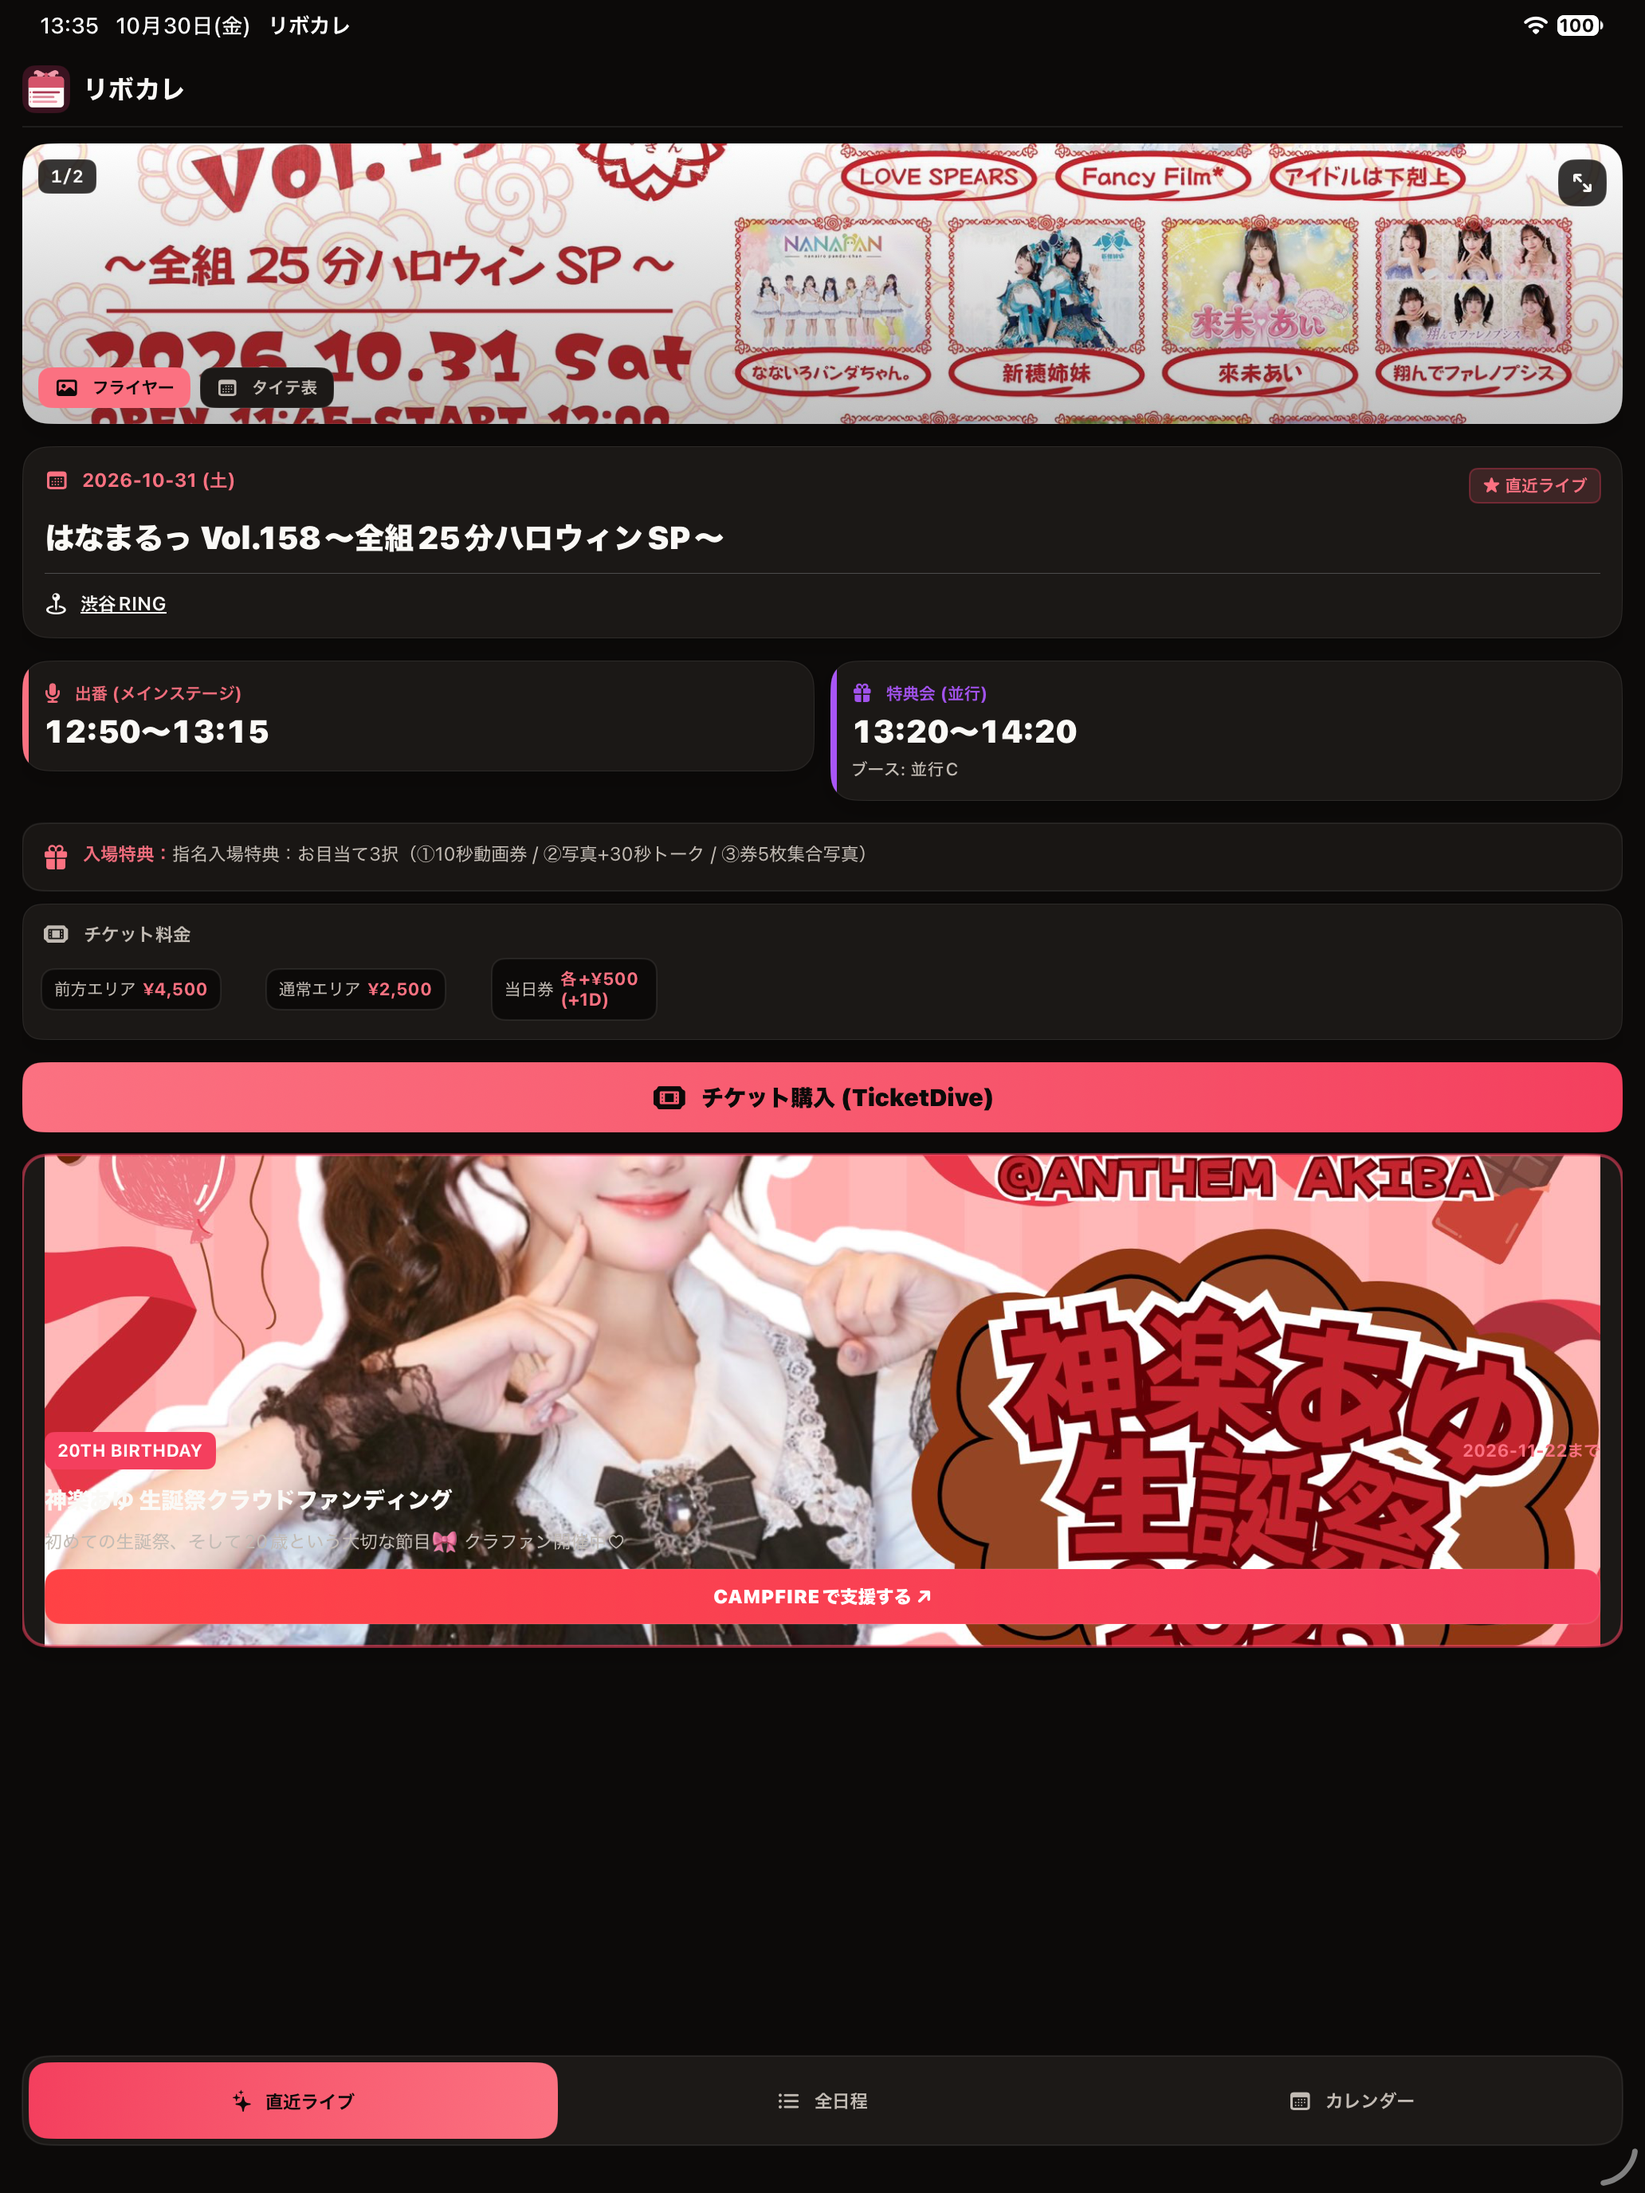
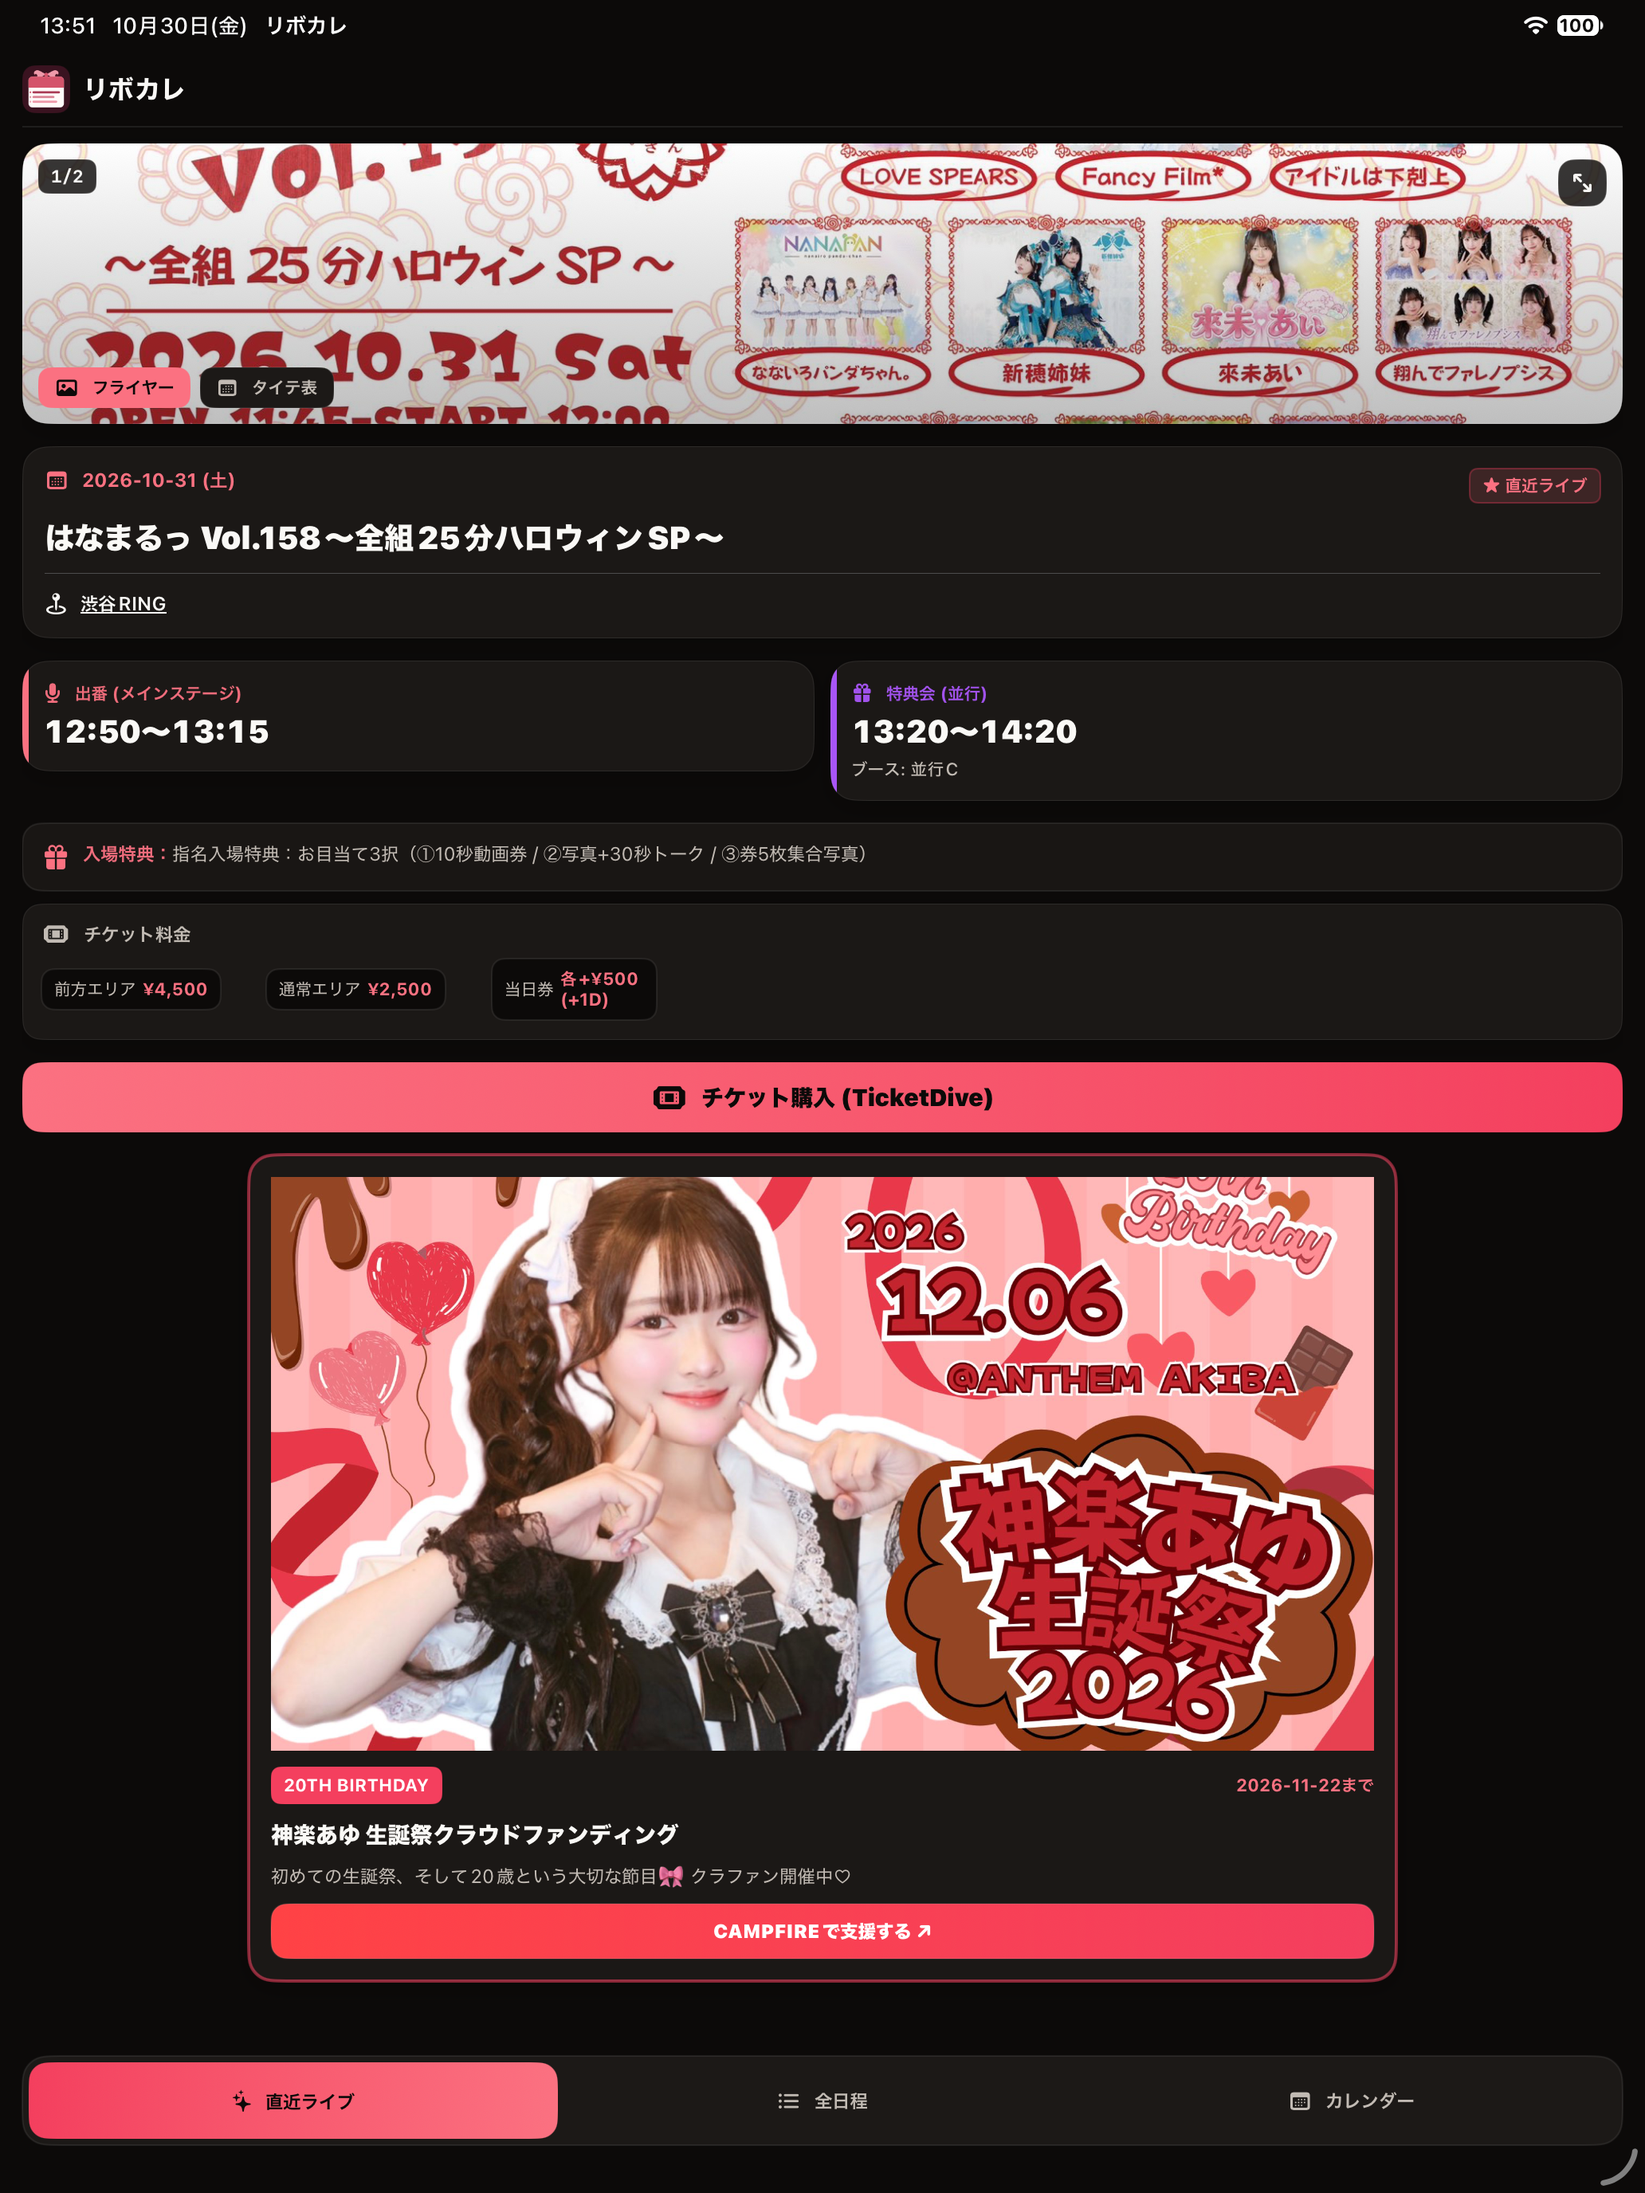
fix: iPadの広告画像表示を調整

Changed region(s): [[0.0, 0.5, 0.9922, 0.9062], [0.062, 0.0, 0.2171, 0.0312]]

diff --git a/apps/ios/TaiteBoard/NextView.swift b/apps/ios/TaiteBoard/NextView.swift
@@ -531,16 +531,32 @@ private struct RibbonImageViewer: View {
 
 private struct PromotionCard: View {
     let promotion: Promotion
+    @Environment(\.horizontalSizeClass) private var horizontalSizeClass
 
     private var isHero: Bool {
         promotion.type == "hero"
     }
 
+    private var usesRegularWidthLayout: Bool {
+        horizontalSizeClass == .regular
+    }
+
+    private var promotionImageHeight: CGFloat {
+        usesRegularWidthLayout ? 360 : 150
+    }
+
     var body: some View {
         VStack(alignment: .leading, spacing: 10) {
             if let imageURL = promotion.imageUrl, !imageURL.isEmpty {
-                ScheduleRemoteImage(source: imageURL, contentMode: .fill)
-                    .frame(height: 150)
+                ScheduleRemoteImage(
+                    source: imageURL,
+                    contentMode: .fill
+                )
+                .frame(maxWidth: .infinity)
+                // Give the poster enough vertical space on iPad to keep the
+                // subject visible while retaining the compact web-like card.
+                .frame(height: promotionImageHeight)
+                .clipped()
             }
 
             HStack {
@@ -583,10 +599,15 @@ private struct PromotionCard: View {
             }
         }
         .padding(14)
+        .frame(
+            maxWidth: usesRegularWidthLayout ? 720 : .infinity,
+            alignment: .leading
+        )
         .ribbonCard(cornerRadius: 16)
         .overlay(
             RoundedRectangle(cornerRadius: 16)
                 .stroke(isHero ? RibbonTheme.roseStrong.opacity(0.55) : .clear, lineWidth: isHero ? 2 : 0)
         )
+        .frame(maxWidth: .infinity)
     }
 }
